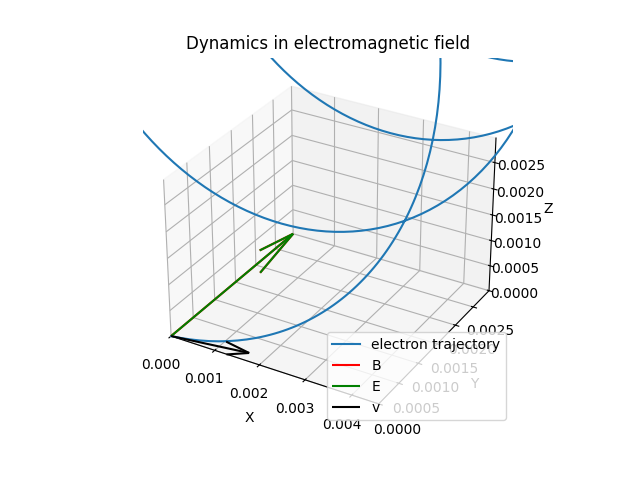
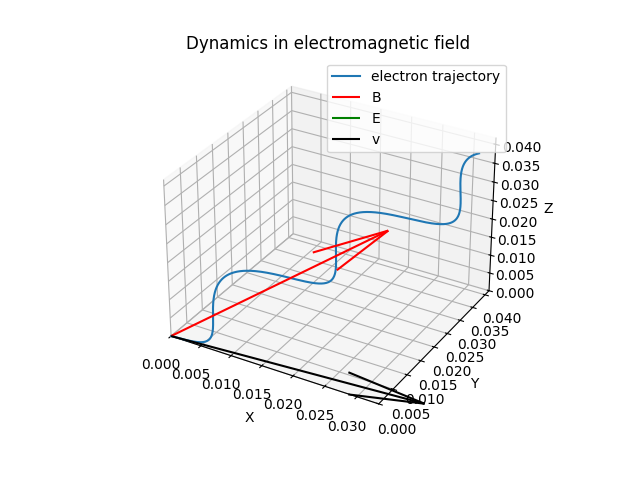
5156151

Changed region(s): [[0.25, 0.125, 0.8438, 0.9062], [0.25, 0.3125, 0.2812, 0.3438], [0.2188, 0.2812, 0.25, 0.3125]]

diff --git a/task_1.py b/task_1.py
@@ -39,12 +39,12 @@ m = 1.6 * 10**(-31)
 q = 1.6 * 10**(-19)
 
 Ex = 0
-Ey = 10**(-3)
+Ey = 0
 Ez = 0
 
-Bx = 0
-By = 2 * 10**(-3)
-Bz = 0
+Bx = 10**(-3)
+By = 10**(-3)
+Bz = 10**(-3)
 
 # Решаем систему диф. уравнений
 sol = odeint(move_func, s0, t)
